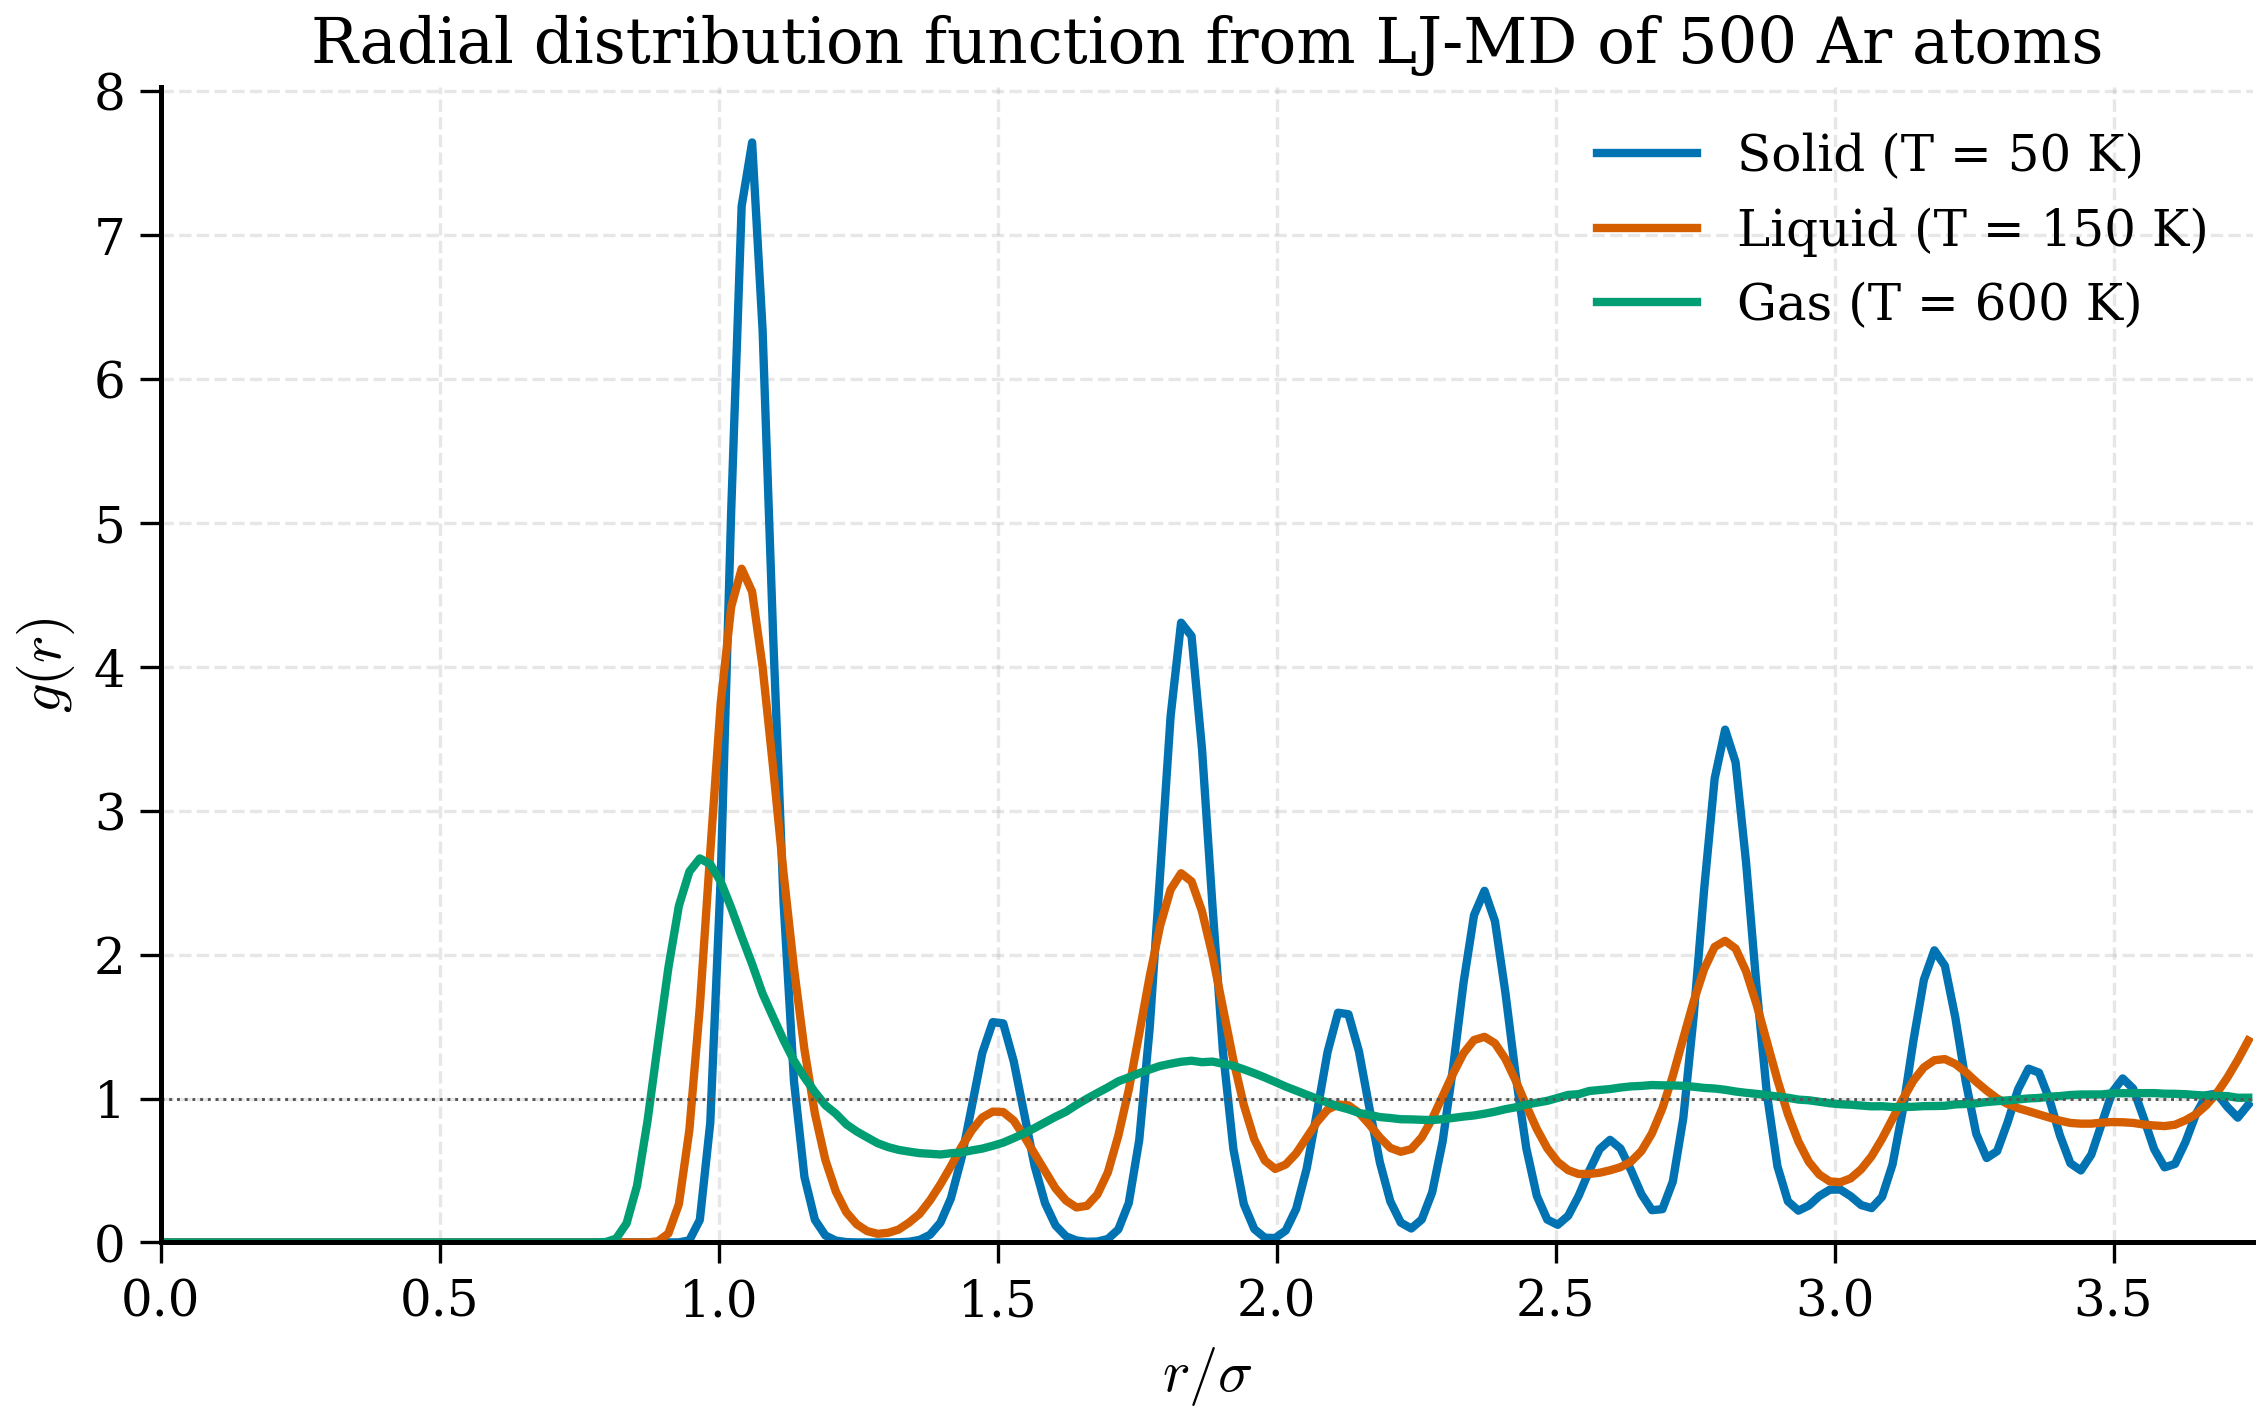
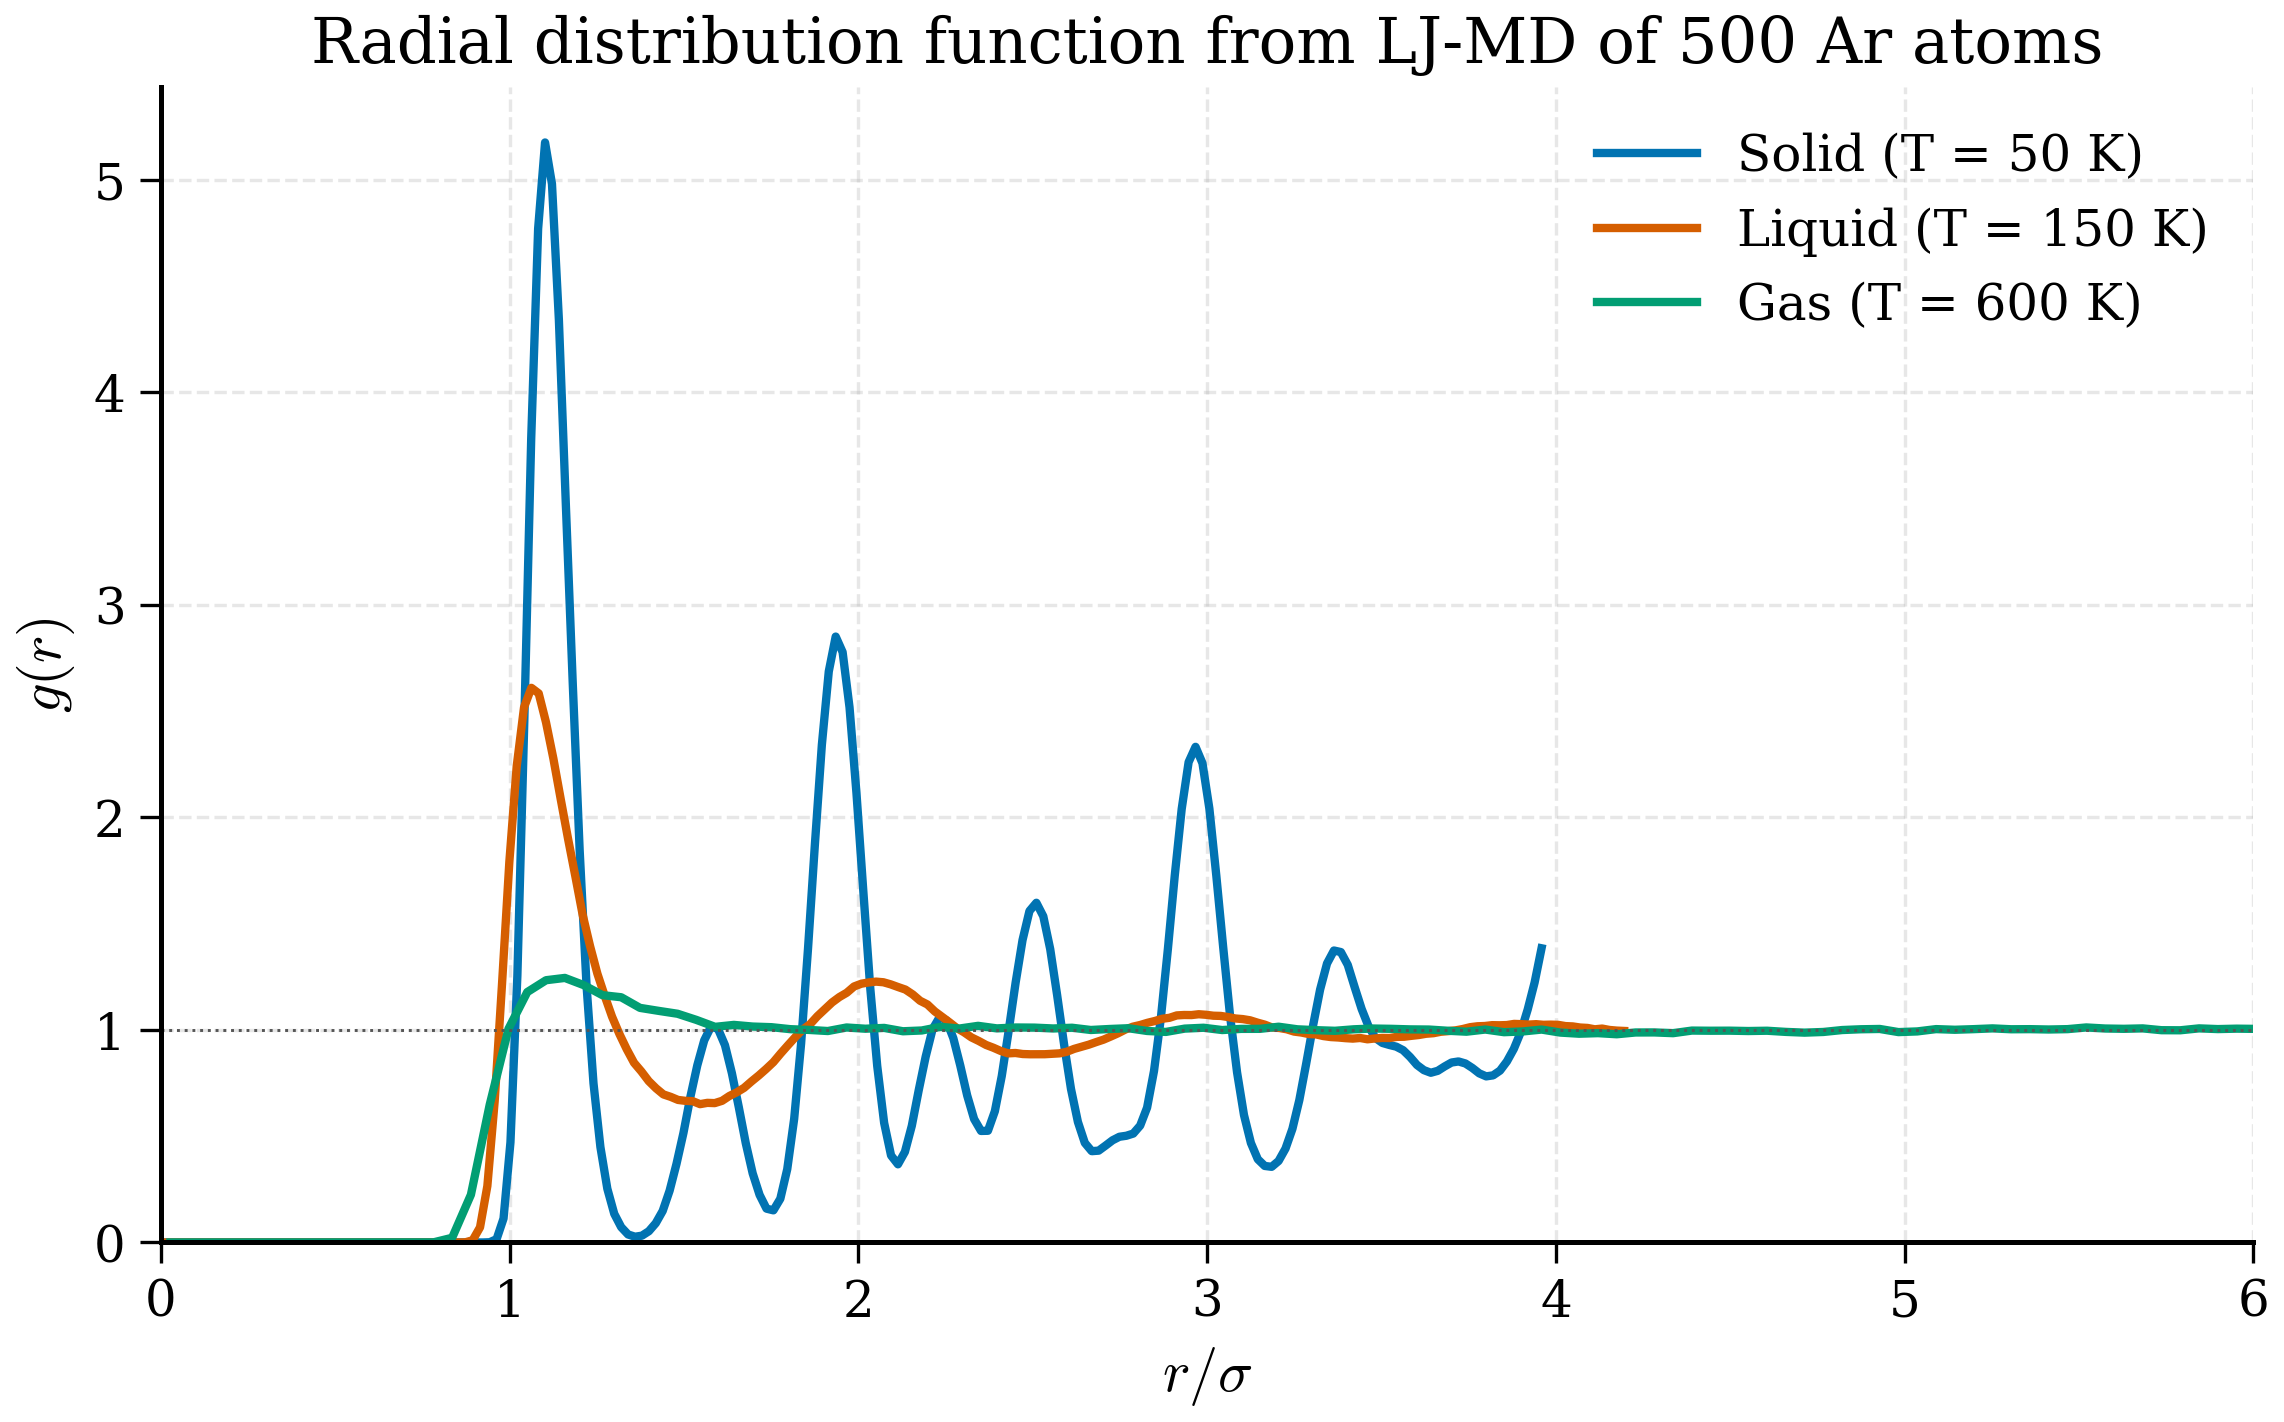
Complete remaining P1 fixes from the editorial review; drop PDF feature
## P1 fixes (from .reviews/00-editorial-decision.md)

- code/tier1/ch11/gp.py: removed the silent auto-transpose of X in
  fit() and predict(). A 1-D input is now interpreted unambiguously as
  a column vector (n samples, 1 feature); a mismatched 2-D shape raises
  a clear ValueError instead of being quietly transposed. The previous
  behaviour would mask a genuine caller bug.
- code/tier1/ch05/scf_1d.py: kinetic_matrix kept dense, but the
  docstring now explains *why* — n ~ 300, all eigenpairs needed, dense
  eigh is the right call at this scale — and contrasts it with the
  sparse iterative route mandatory in production 3-D codes. Code and
  prose no longer appear to contradict each other.
- scripts/figures/fig_rdf_real.py: each phase now runs at its own
  density, not a shared one. Reduced densities rho* = 1.0 / 0.84 / 0.05
  for solid / triple-point-liquid / dilute-gas. The 600 K run at the
  old shared liquid density was a supercritical fluid, not a vapour.
  Figure regenerated: liquid first peak r/sigma = 1.06, g_max = 2.6,
  matching the textbook triple-point Lennard-Jones value. Caption in
  ch07-md/06-analysis.md updated to state the per-phase densities.
- ch05-dft/02-hohenberg-kohn.md: the "Janak in action" hydrogen example
  said LDA underestimates the ionisation potential "by typically 5 eV"
  while its own numbers (-7 eV vs -13.6 eV) implied ~6.6 eV. Reworded
  to a self-consistent "about 6-7 eV", and the comparison is now
[…]

diff --git a/scripts/figures/fig_rdf_real.py b/scripts/figures/fig_rdf_real.py
@@ -243,30 +243,38 @@ def main() -> None:
     n_atoms = 4 * n_cells ** 3
     assert n_atoms == 500
 
-    # liquid Ar reference density ~ 30 atoms / nm^3 = 0.030 A^-3
-    rho = 0.030
-    box = (n_atoms / rho) ** (1.0 / 3.0)
-    a_fcc = box / n_cells
-
-    print(f"N = {n_atoms} atoms, box = {box:.3f} A, "
-          f"rho = {rho:.3f} A^-3, a_fcc = {a_fcc:.3f} A")
-    print(f"sigma = {SIGMA_A} A, eps/kB = {EPS_K} K")
-
     # MD parameters
     dt = 5e-3        # 5 fs in ps
     n_equil = 2000
     n_prod = 5000
     rcut = 2.5 * SIGMA_A
 
-    # Three temperatures
+    # Each phase is run at BOTH its characteristic temperature AND its
+    # characteristic density. Reusing one density for all three would
+    # just give the same fluid at three temperatures — a 600 K run at
+    # liquid density is a supercritical fluid, not a vapour. The reduced
+    # densities rho* = rho * sigma^3 of ~1.0 / 0.84 / 0.05 are the
+    # textbook solid / triple-point-liquid / dilute-gas values for the
+    # Lennard-Jones system.
+    sigma3 = SIGMA_A ** 3
     runs = [
-        ("Solid (T = 50 K)",  50.0, COLOURS["blue"]),
-        ("Liquid (T = 150 K)", 150.0, COLOURS["red"]),
-        ("Gas (T = 600 K)",   600.0, COLOURS["green"]),
+        # label,                T (K),  rho* (reduced), colour
+        ("Solid (T = 50 K)",     50.0,  1.00, COLOURS["blue"]),
+        ("Liquid (T = 150 K)",  150.0,  0.84, COLOURS["red"]),
+        ("Gas (T = 600 K)",     600.0,  0.05, COLOURS["green"]),
     ]
 
+    print(f"N = {n_atoms} atoms, sigma = {SIGMA_A} A, eps/kB = {EPS_K} K")
+
     fig, ax = plt.subplots(figsize=(9, 5))
-    for label, T, colour in runs:
+    max_half_box = 0.0
+    for label, T, rho_star, colour in runs:
+        rho = rho_star / sigma3                  # number density in A^-3
+        box = (n_atoms / rho) ** (1.0 / 3.0)
+        a_fcc = box / n_cells
+        max_half_box = max(max_half_box, box / 2.0)
+        print(f"  {label}: rho* = {rho_star:.2f}, rho = {rho:.4f} A^-3, "
+              f"box = {box:.2f} A")
         r, g = run_phase(
             T_target=T, box=box, n_cells=n_cells, a_fcc=a_fcc,
             n_equil=n_equil, n_prod=n_prod, dt=dt,
@@ -284,7 +292,7 @@ def main() -> None:
     ax.set_xlabel(r"$r / \sigma$")
     ax.set_ylabel(r"$g(r)$")
     ax.set_title(r"Radial distribution function from LJ-MD of 500 Ar atoms")
-    ax.set_xlim(0.0, (box / 2.0) / SIGMA_A)
+    ax.set_xlim(0.0, 6.0)
     ax.set_ylim(0.0, None)
     ax.legend(frameon=False, loc="upper right")
     ax.grid(alpha=0.3, linestyle="--")

diff --git a/code/tier1/ch11/gp.py b/code/tier1/ch11/gp.py
@@ -44,17 +44,33 @@ class GP:
         self.L: NDArray[np.float64] | None = None
 
     def _prepare_X(self, X: NDArray[np.float64]) -> NDArray[np.float64]:
-        X = np.atleast_2d(X)
-        return X
+        # A 1-D array is interpreted unambiguously as n samples of one
+        # feature each, i.e. a column vector. A 2-D array is taken as
+        # (n_samples, n_features) and used verbatim. We never silently
+        # transpose a 2-D array: an ambiguous shape is a caller bug, and
+        # a silent transpose would hide it.
+        X = np.asarray(X, dtype=np.float64)
+        if X.ndim == 1:
+            return X.reshape(-1, 1)
+        if X.ndim == 2:
+            return X
+        raise ValueError(
+            f"X must be 1-D or 2-D, got {X.ndim}-D array of shape {X.shape}"
+        )
 
     def fit(
         self, X: NDArray[np.float64], y: NDArray[np.float64]
     ) -> None:
         X = self._prepare_X(X)
+        y = np.asarray(y, dtype=np.float64).ravel()
         if X.shape[0] != y.shape[0]:
-            X = X.T
+            raise ValueError(
+                f"X has {X.shape[0]} samples but y has {y.shape[0]}. "
+                f"X must have shape (n_samples, n_features); pass a 1-D "
+                f"array for a single feature."
+            )
         self.X = X
-        self.y = y.astype(np.float64)
+        self.y = y
         K = rbf_kernel(self.X, self.X, self.sigma_f, self.length_scale)
         K += self.sigma_n ** 2 * np.eye(len(self.X))
         self.L, lower = cho_factor(K, lower=True)
@@ -65,9 +81,12 @@ class GP:
         self, X_star: NDArray[np.float64]
     ) -> tuple[NDArray[np.float64], NDArray[np.float64]]:
         assert self.X is not None and self.alpha is not None
-        X_star = np.atleast_2d(X_star)
+        X_star = self._prepare_X(X_star)
         if X_star.shape[1] != self.X.shape[1]:
-            X_star = X_star.T
+            raise ValueError(
+                f"X_star has {X_star.shape[1]} features but the model was "
+                f"fitted on {self.X.shape[1]}. The feature dimension must match."
+            )
         K_star = rbf_kernel(self.X, X_star, self.sigma_f, self.length_scale)
         mu = K_star.T @ self.alpha
         v = cho_solve((self.L, self._lower), K_star)

diff --git a/code/tier1/ch05/scf_1d.py b/code/tier1/ch05/scf_1d.py
@@ -25,7 +25,19 @@ class Grid:
 
 
 def kinetic_matrix(g: Grid) -> NDArray[np.float64]:
-    """Periodic-BC second-order finite-difference -1/2 d^2/dx^2."""
+    """Periodic-BC second-order finite-difference -1/2 d^2/dx^2.
+
+    The operator is genuinely sparse (tridiagonal plus two corner
+    elements from the periodic boundary). We nonetheless store it as a
+    dense array here on purpose: this 1-D model has only n ~ 300 grid
+    points, the SCF loop needs *all* eigenpairs (not just a few), and
+    ``numpy.linalg.eigh`` on a 300x300 dense matrix is faster and far
+    simpler than a sparse iterative solver in that regime. Production
+    3-D plane-wave codes face the opposite situation -- millions of
+    basis functions, only the occupied bands wanted -- and there the
+    sparse, iterative route (Davidson, LOBPCG) is mandatory. The lesson
+    is that "use sparse" is a scaling argument, not an absolute rule.
+    """
     n, dx = g.n, g.dx
     main = np.full(n, 1.0 / dx ** 2)
     off = np.full(n - 1, -0.5 / dx ** 2)

diff --git a/docs/ch05-dft/02-hohenberg-kohn.md b/docs/ch05-dft/02-hohenberg-kohn.md
@@ -434,7 +434,7 @@ since $\hat h_\mathrm{KS}\phi_i = \varepsilon_i\phi_i$. The orbitals themselves 
     Janak's theorem is the deepest justification for the practice of *partial occupations* (Fermi smearing) for metals — see §5.5. It also implies the *piecewise-linearity* of $E[N]$ for the exact functional: if we allow the total electron number $N$ to vary continuously between integers, the exact energy must be a *straight line* between consecutive integers, because $\partial E/\partial N$ equals the chemical potential, which jumps by $\Delta_{xc}$ (the derivative discontinuity, §5.6) at each integer. Approximate functionals violate this piecewise linearity, and the resulting *curvature* of $E[N]$ is one of the most diagnostic measures of self-interaction error in modern functional development.
 
 !!! example "Janak in action: ionisation potential of hydrogen"
-    For the hydrogen atom with exact $E_{xc}$, sweeping the occupation $f$ of the 1s orbital from 1 to 0 traces out the curve $E(f) = E(1) - I\cdot(1-f)$ exactly, where $I=0.5\;\text{Ha}$ is the ionisation potential. The slope at any $f\in(0,1)$ equals $-I$. With approximate functionals like LDA, the curve is concave-up — $E(f)$ bows below the straight line — and the slope at $f=1$ underestimates $I$ by typically 5 eV (the LDA HOMO of H is $\approx -7\;\text{eV}$ versus experiment $-13.6\;\text{eV}$).
+    For the hydrogen atom with exact $E_{xc}$, sweeping the occupation $f$ of the 1s orbital from 1 to 0 traces out the curve $E(f) = E(1) - I\cdot(1-f)$ exactly, where $I = 0.5\;\text{Ha} = 13.6\;\text{eV}$ is the ionisation potential, and the slope at any $f\in(0,1)$ equals $-I$. With approximate functionals like LDA the curve is concave-up — $E(f)$ bows below the straight line — so the slope at $f=1$, which is the LDA HOMO eigenvalue, underestimates $I$. The LDA HOMO of hydrogen sits at roughly $-7\;\text{eV}$, against the exact $-13.6\;\text{eV}$: an error of about $6$–$7\;\text{eV}$, almost half the binding energy, and a direct fingerprint of the self-interaction error discussed in §5.4.
 
 ### Asymptotic behaviour of the exact KS potential
 

diff --git a/docs/ch07-md/06-analysis.md b/docs/ch07-md/06-analysis.md
@@ -9,7 +9,7 @@
 
 <figure markdown>
 ![g(r) for crystal, liquid, gas](../assets/figures/ch07/fig_rdf_real.png){ width="700" }
-<figcaption>Figure 7.6.1. Radial distribution function \(g(r)\) for the three phases. Sharp, persistent peaks at well-defined neighbour shells signal a crystal; one or two broad peaks decaying to \(g(r) \to 1\) signal a liquid; a near-featureless approach to 1 signals a gas. Computed from a real LJ-MD simulation of 500 argon atoms (\(\sigma = 3.405\) Å, \(\varepsilon/k_B = 119.8\) K) at three temperatures (50 K, 150 K, 600 K) via velocity-Verlet integration with Berendsen-style equilibration — see <code>scripts/figures/fig_rdf_real.py</code>. A simpler analytic-curve illustration is in <code>scripts/figures/fig_rdf_phases.py</code>.</figcaption>
+<figcaption>Figure 7.6.1. Radial distribution function \(g(r)\) for the three phases. Sharp, persistent peaks at well-defined neighbour shells signal a crystal; one or two broad peaks decaying to \(g(r) \to 1\) signal a liquid; a near-featureless approach to 1 signals a gas. Computed from a real LJ-MD simulation of 500 argon atoms (\(\sigma = 3.405\) Å, \(\varepsilon/k_B = 119.8\) K) via velocity-Verlet integration with Berendsen-style equilibration. Each phase is run at <em>both</em> its characteristic temperature and its characteristic density — reduced density \(\rho^* = \rho\sigma^3 \approx 1.0\) at 50 K (solid), \(0.84\) at 150 K (triple-point liquid), and \(0.05\) at 600 K (dilute gas); running all three at one density would merely give the same fluid at three temperatures. The liquid first peak here sits at \(r/\sigma \approx 1.06\) with \(g_\text{max} \approx 2.6\), in line with the textbook triple-point Lennard-Jones value. See <code>scripts/figures/fig_rdf_real.py</code>; a simpler analytic-curve illustration is in <code>scripts/figures/fig_rdf_phases.py</code>.</figcaption>
 </figure>
 
 <figure markdown>
